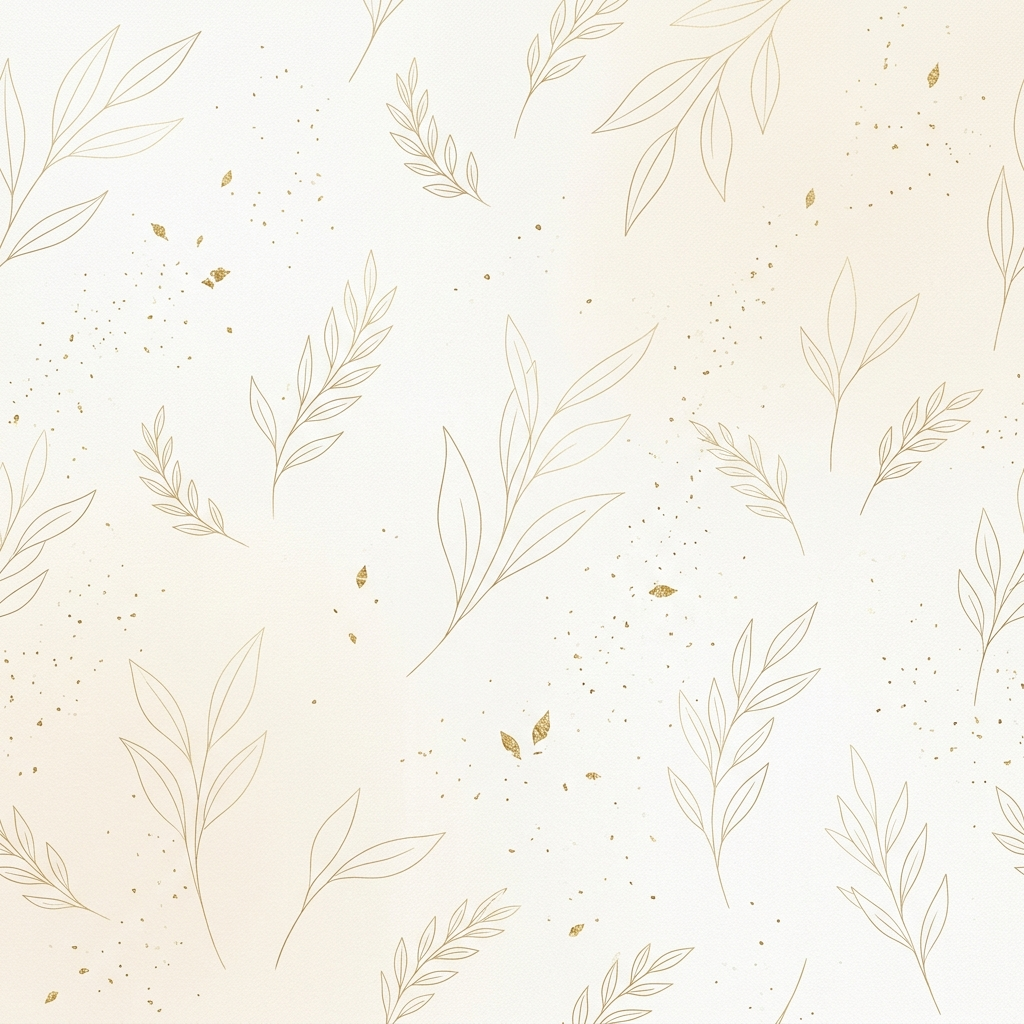
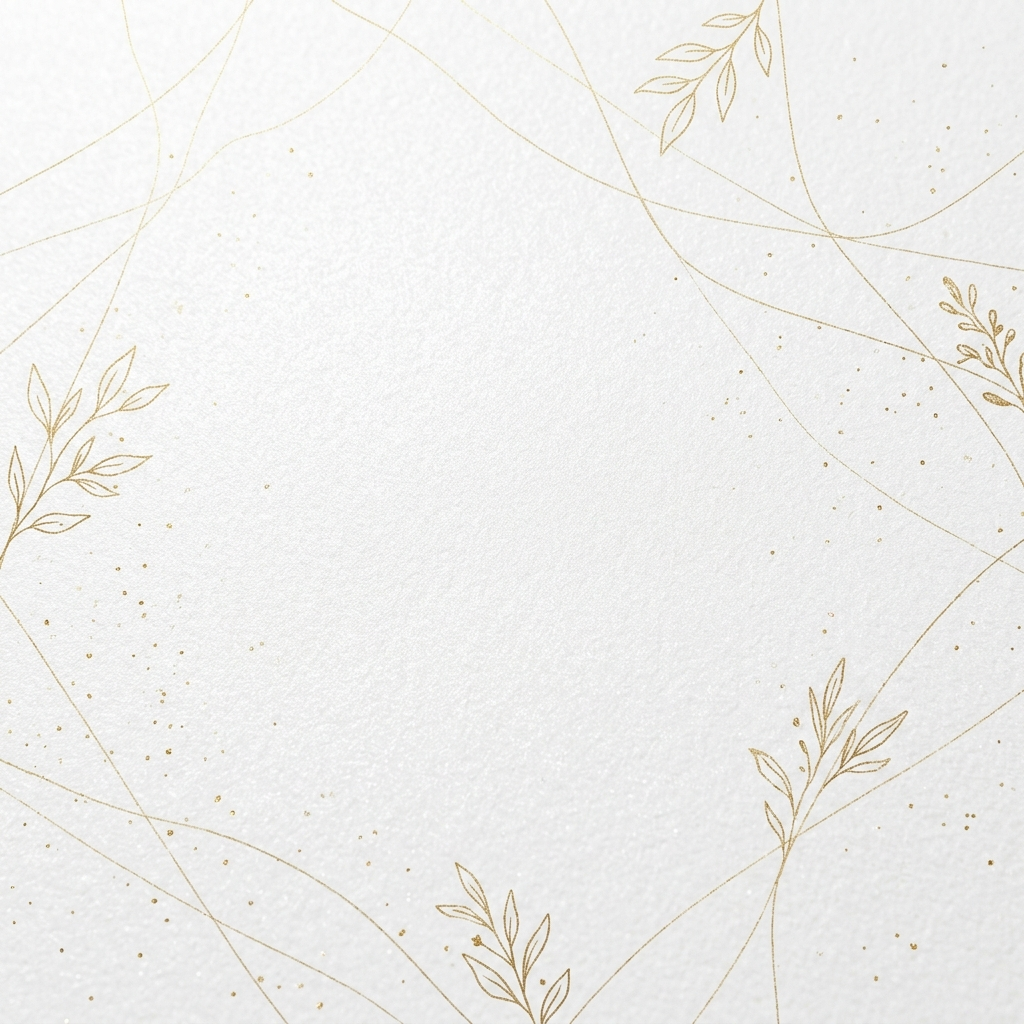
style: replace warm cream background image with pure white textured background and remove all solid cream/beige CSS variables

diff --git a/src/index.css b/src/index.css
@@ -7,10 +7,10 @@
   --font-heading: "Playfair Display", serif;
   --font-body: "Cormorant Garamond", serif;
   --font-sans: "Manrope", sans-serif;
-  --color-background: #F8F6F2;
-  --color-background-soft: #CFC9C2;
+  --color-background: #ffffff;
+  --color-background-soft: #f5f7fc;
   --color-paper: #ffffff;
-  --color-paper-soft: #F8F6F2;
+  --color-paper-soft: #ffffff;
   --color-gold: #D4BA8C;
   --color-gold-soft: #E5D5BA;
   --color-emerald: #0D2747;
@@ -19,7 +19,7 @@
 
 :root {
   color-scheme: light;
-  --invite-cream: #F8F6F2;
+  --invite-cream: #ffffff;
   --invite-paper: #ffffff;
   --invite-sand: #CFC9C2;
   --invite-brown: #0D2747; /* Deep navy for texts */